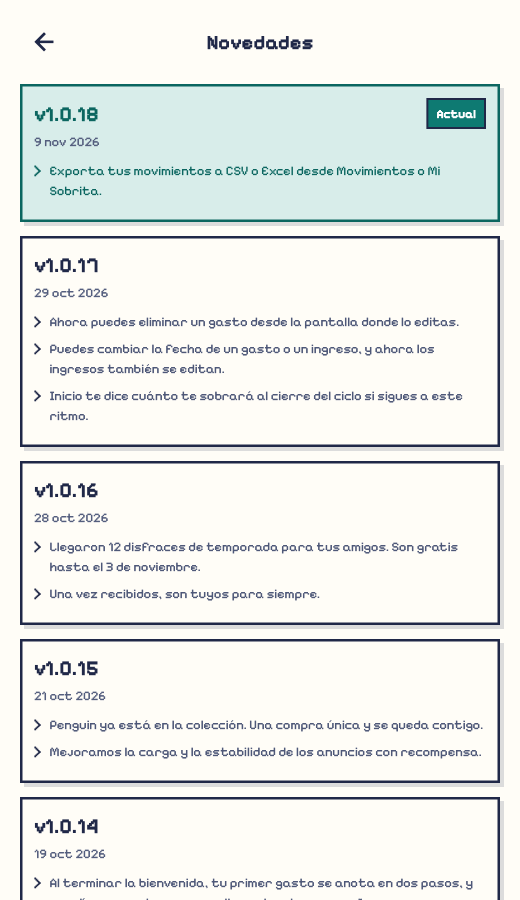
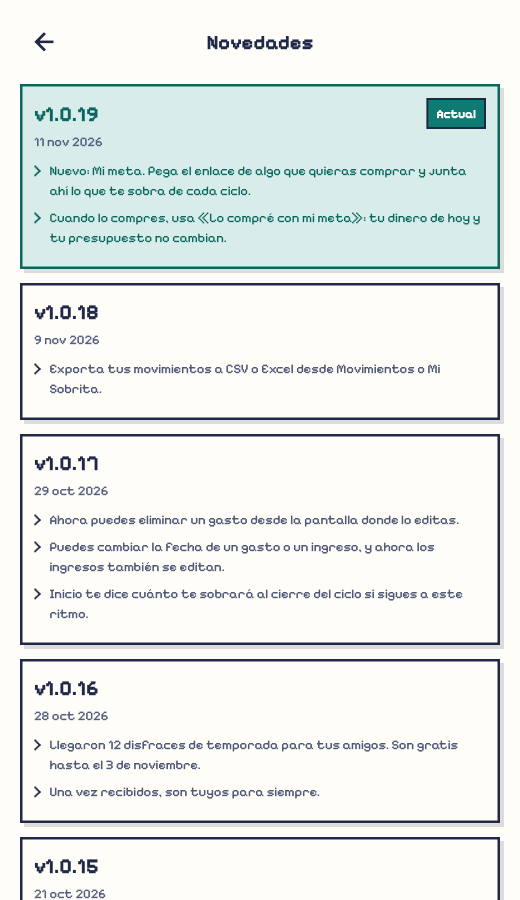
chore: move to 1.0.19+31 with savings goals
Adds the 1.0.19 release note in every locale: the new goal, filled from
a shop link and from each cycle's leftover, and recording the purchase
with "bought with my goal" without touching today's money or the budget.
Drops the 1.0.14 note to stay within the five-version retention rule and
updates the release-notes golden.

1.0.18+30 is already on Play, so the build number moves to 31.

Changed region(s): [[0.0308, 0.1244, 0.9846, 1.0]]

diff --git a/lib/data/release_notes.dart b/lib/data/release_notes.dart
@@ -42,6 +42,14 @@ class ReleaseNote {
 /// nothing, which is what [ReleaseAnnouncements] reads a missing note as.
 final releaseNotes = <ReleaseNote>[
   ReleaseNote(
+    version: '1.0.19',
+    releasedOn: DateTime(2026, 11, 11),
+    lines: [
+      (l10n) => l10n.releaseNote1019Goal,
+      (l10n) => l10n.releaseNote1019Bought,
+    ],
+  ),
+  ReleaseNote(
     version: '1.0.18',
     releasedOn: DateTime(2026, 11, 9),
     lines: [(l10n) => l10n.releaseNote1018Export],
@@ -70,14 +78,6 @@ final releaseNotes = <ReleaseNote>[
     lines: [
       (l10n) => l10n.releaseNote1015Penguin,
       (l10n) => l10n.releaseNote1015Ads,
-    ],
-  ),
-  ReleaseNote(
-    version: '1.0.14',
-    releasedOn: DateTime(2026, 10, 19),
-    lines: [
-      (l10n) => l10n.releaseNote1014FirstExpense,
-      (l10n) => l10n.releaseNote1014Currency,
     ],
   ),
 ];
